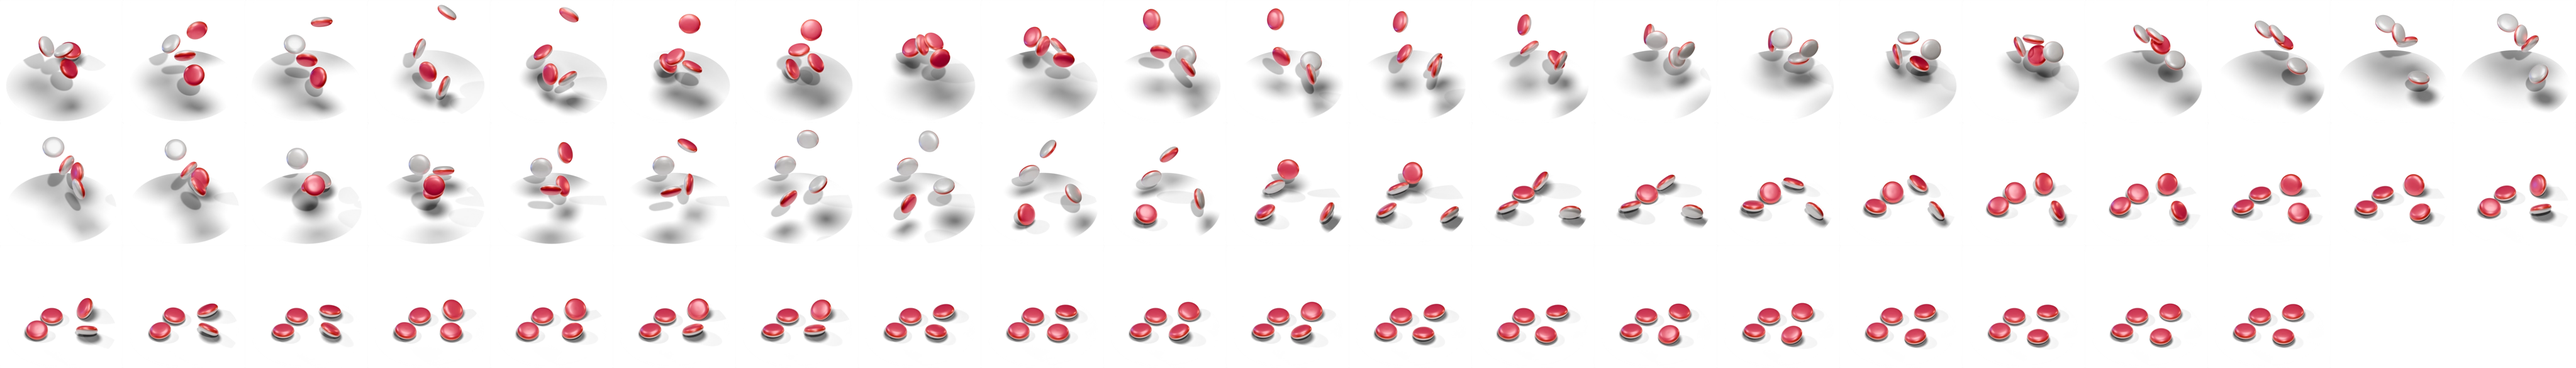
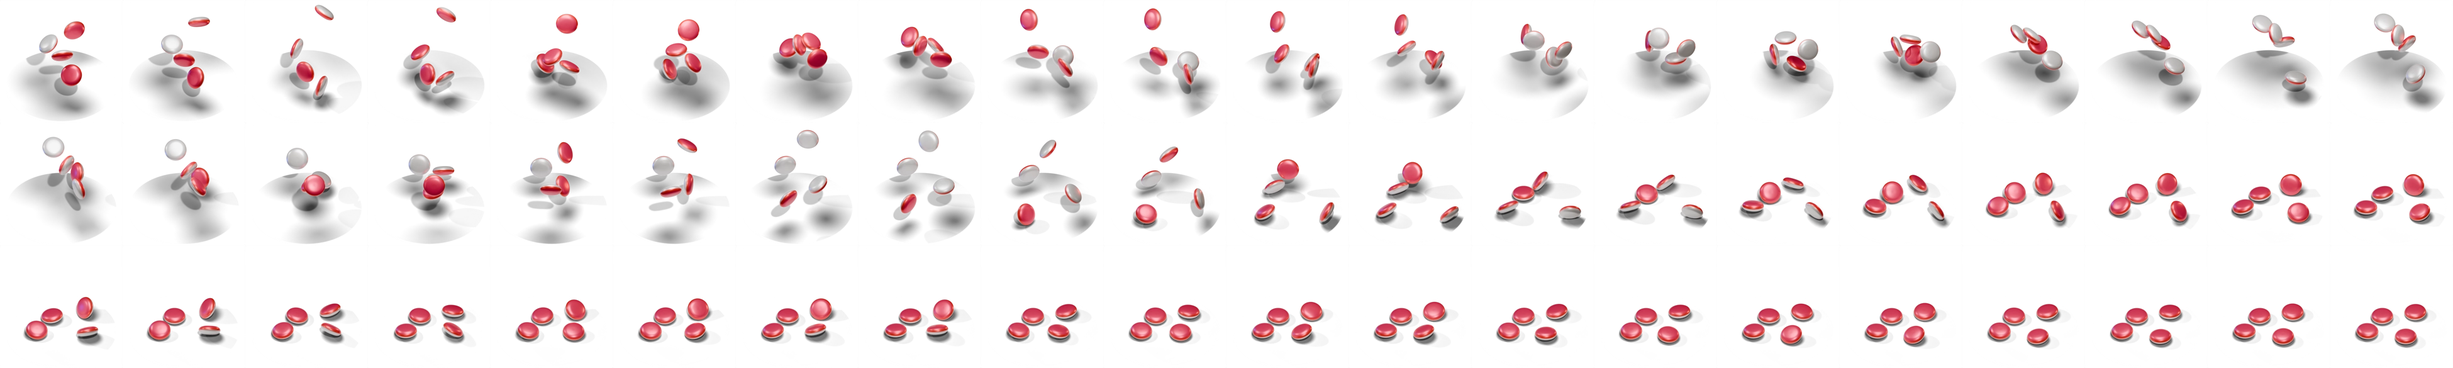
fix: random animation path for sedie cup - Epic GL-4116

diff --git a/packages/sedie-multiplayer/src/result-block/sedie-cup.tsx b/packages/sedie-multiplayer/src/result-block/sedie-cup.tsx
@@ -5,11 +5,9 @@ import { useGameStateContext } from "@shared/react-contexts/game-state-context/g
 import { useGameContext } from "@shared/react-contexts";
 import { Spritesheet } from "@shared/components/game-components/sprites-sheet";
 import { motion } from "motion/react";
-import { getWinningSubOption } from "../history/sedie-multiplayer-bet-detail-result-block";
 import { CachedImage } from "@shared/components/game-components/cached-image";
-import { useMemoriedImage } from "@shared/react-hooks/use-memoried-image";
-import { SeDieBetOptions } from "../sedie-multiplayer-constants";
 import { useDiceShakingRollingSound } from "@shared/react-hooks/use-sound";
+import { useAnimationImages } from "./use-animation-images";
 
 const OPEN_DURATION = 500; // Open duration in milliseconds
 
@@ -23,35 +21,12 @@ const SedieCup = () => {
     const [isShow, setIsShow] = useState(false);
     const [isAnimatingOut, setIsAnimatingOut] = useState(false);
     const [animationState, setAnimationState] = useState<AnimationState>("idle");
-    const { data: defaultAnimationPhase1 } = useMemoriedImage(
-        `/static/images/sedie-multiplayer/result/${getWinningSubOption(settlementResult)}.webp`
-    );
-    const [isUseDefaultAnimation, setIsUseDefaultAnimation] = useState(true);
-    const { data: animationPhase1 } = useMemoriedImage(`/static/images/sedie-multiplayer/animation/phase-1/animation-phase-1.webp`);
-    const { data: red2 } = useMemoriedImage(`/static/images/sedie-multiplayer/animation/phase-2/red2.webp`);
-    const { data: red3 } = useMemoriedImage(`/static/images/sedie-multiplayer/animation/phase-2/red3.webp`);
-    const { data: red4 } = useMemoriedImage(`/static/images/sedie-multiplayer/animation/phase-2/red4.webp`);
-    const { data: white3 } = useMemoriedImage(`/static/images/sedie-multiplayer/animation/phase-2/white3.webp`);
-    const { data: white4 } = useMemoriedImage(`/static/images/sedie-multiplayer/animation/phase-2/white4.webp`);
 
-    const animationPhase2 = useMemo(() => {
-        switch (getWinningSubOption(settlementResult)) {
-            case SeDieBetOptions.RED2:
-                return red2;
-            case SeDieBetOptions.RED3:
-                return red3;
-            case SeDieBetOptions.RED4:
-                return red4;
-            case SeDieBetOptions.WHITE3:
-                return white3;
-            case SeDieBetOptions.WHITE4:
-                return white4;
-            default:
-                return null;
-        }
-    }, [settlementResult]);
+    // Use custom hook to manage all animation images
+    const { animationPhase1, animationPhase2 } = useAnimationImages(settlementResult);
 
     const resultRef = useRef(null);
+    const phase1Ref = useRef(null);
     const phase2Ref = useRef(null);
 
     const playDiceShakingRollingSound = useDiceShakingRollingSound();
@@ -59,19 +34,6 @@ const SedieCup = () => {
     useEffect(() => {
         playDiceShakingRollingRef.current = playDiceShakingRollingSound;
     }, [playDiceShakingRollingSound]);
-
-    useEffect(() => {
-        if (animationPhase1 && animationPhase2) {
-            setIsUseDefaultAnimation(false);
-        }
-    }, [animationPhase1, animationPhase2]);
-
-    const animationPhase1Data = useMemo(() => {
-        if (isUseDefaultAnimation) {
-            return defaultAnimationPhase1;
-        }
-        return animationPhase1;
-    }, [isUseDefaultAnimation]);
 
     useEffect(() => {
         const resetState = () => {
@@ -183,25 +145,28 @@ const SedieCup = () => {
                     <div className="relative w-full h-full top-[13px] left-[83px] z-[5] scale-[92%]">
                         {animationState === "open" ? (
                             <div>
-                                <Spritesheet
-                                    key={`phase-1`}
-                                    className={`absolute inset-0`}
-                                    imageData={animationPhase1Data}
-                                    widthFrame={195}
-                                    heightFrame={195}
-                                    isResponsive={false}
-                                    steps={isUseDefaultAnimation ? 20 : 21}
-                                    autoplay={true}
-                                    fps={40}
-                                    startAt={1}
-                                    endAt={isUseDefaultAnimation ? 100 : 61}
-                                    onPause={(spritesheet) => {
-                                        if (!isUseDefaultAnimation && resultRef.current) {
-                                            resultRef.current?.goToAndPlay(0);
-                                            phase2Ref.current.style.opacity = "1";
-                                        }
-                                    }}
-                                />
+                                <div ref={phase1Ref} style={{ opacity: 1 }}>
+                                    <Spritesheet
+                                        key={`phase-1`}
+                                        className={`absolute inset-0`}
+                                        imageData={animationPhase1}
+                                        widthFrame={195}
+                                        heightFrame={195}
+                                        isResponsive={false}
+                                        steps={20}
+                                        autoplay={true}
+                                        fps={40}
+                                        startAt={1}
+                                        endAt={60}
+                                        onPause={(spritesheet) => {
+                                            if (resultRef.current && phase1Ref.current) {
+                                                phase1Ref.current.style.opacity = "0";
+                                                resultRef.current?.goToAndPlay(0);
+                                                phase2Ref.current.style.opacity = "1";
+                                            }
+                                        }}
+                                    />
+                                </div>
                                 <div ref={phase2Ref} style={{ opacity: 0 }}>
                                     <Spritesheet
                                         key={`phase-2`}
@@ -211,13 +176,13 @@ const SedieCup = () => {
                                         widthFrame={195}
                                         heightFrame={195}
                                         isResponsive={false}
-                                        steps={21}
+                                        steps={20}
                                         fps={40}
                                         startAt={1}
-                                        endAt={61}
+                                        endAt={60}
                                         autoplay={false}
                                         getInstance={(spritesheet) => {
-                                            resultRef.current = spritesheet;                                         
+                                            resultRef.current = spritesheet;
                                         }}
                                     />
                                 </div>
@@ -226,7 +191,7 @@ const SedieCup = () => {
                             <Spritesheet
                                 key={`waiting`}
                                 className={`fade-in`}
-                                imageData={animationPhase1Data}
+                                imageData={animationPhase1}
                                 widthFrame={195}
                                 heightFrame={195}
                                 isResponsive={false}

diff --git a/packages/sedie-multiplayer/src/result-block/use-animation-images.ts b/packages/sedie-multiplayer/src/result-block/use-animation-images.ts
@@ -1,0 +1,93 @@
+import { useMemo, useState, useEffect } from "react";
+import { useMemoriedImage } from "@shared/react-hooks/use-memoried-image";
+import { getWinningSubOption } from "../history/sedie-multiplayer-bet-detail-result-block";
+import { SeDieBetOptions } from "../sedie-multiplayer-constants";
+import { useGameStateContext } from "@shared/react-contexts/game-state-context/game-state-context";
+
+interface AnimationImages {
+    animationPhase1: any;
+    animationPhase2: any;
+}
+
+// Define all available variants for each option
+const ANIMATION_VARIANTS = {
+    [SeDieBetOptions.RED2]: ["red2-op-1", "red2-op-2", "red2-op-3", "red2-op-4", "red2-op-5", "red2-op-6"],
+    [SeDieBetOptions.RED3]: ["red3-op-1", "red3-op-2", "red3-op-3", "red3-op-4"],
+    [SeDieBetOptions.WHITE3]: ["white3-op-1", "white3-op-2", "white3-op-3", "white3-op-4"],
+    // red4 and white4 don't have variants, use original names
+    [SeDieBetOptions.RED4]: ["red4"],
+    [SeDieBetOptions.WHITE4]: ["white4"],
+};
+
+export const useAnimationImages = (settlementResult: any) => {
+    const { roundId } = useGameStateContext();
+    const [selectedVariants, setSelectedVariants] = useState<Record<string, string>>({});
+
+    // Load animation phase 1
+    const { data: animationPhase1 } = useMemoriedImage(`/static/images/sedie-multiplayer/animation/phase-1/animation-phase-1.webp`);
+
+    // Randomize variants based on roundId for consistent animation across players
+    useEffect(() => {
+        const newVariants: Record<string, string> = {};
+
+        const seededRandom = (seed: string, max: number) => {
+            let hash = 0;
+            for (let i = 0; i < seed.length; i++) {
+                const char = seed.charCodeAt(i);
+                hash = (hash << 5) - hash + char;
+                hash = hash & hash;
+            }
+
+            return Math.abs(hash) % max;
+        };
+
+        const winningOption = getWinningSubOption(settlementResult);
+        const variants = ANIMATION_VARIANTS[winningOption];
+
+        if (variants.length > 1) {
+            // Use roundId as seed for consistent randomization
+            const randomIndex = seededRandom(`${roundId}-${winningOption}`, variants.length);
+            newVariants[winningOption] = variants[randomIndex];
+        } else {
+            // Use the only variant for red4 and white4
+            newVariants[winningOption] = variants[0];
+        }
+
+        setSelectedVariants(newVariants);
+    }, [roundId, settlementResult]);
+
+    // Load all phase 2 animations with their selected variants
+    const { data: red2 } = useMemoriedImage(
+        `/static/images/sedie-multiplayer/animation/phase-2/${selectedVariants[SeDieBetOptions.RED2] || "red2-op-1"}.webp`
+    );
+    const { data: red3 } = useMemoriedImage(
+        `/static/images/sedie-multiplayer/animation/phase-2/${selectedVariants[SeDieBetOptions.RED3] || "red3-op-1"}.webp`
+    );
+    const { data: white3 } = useMemoriedImage(
+        `/static/images/sedie-multiplayer/animation/phase-2/${selectedVariants[SeDieBetOptions.WHITE3] || "white3-op-1"}.webp`
+    );
+
+    const { data: red4 } = useMemoriedImage(`/static/images/sedie-multiplayer/animation/phase-2/red4.webp`);
+    const { data: white4 } = useMemoriedImage(`/static/images/sedie-multiplayer/animation/phase-2/white4.webp`);
+
+    const phase2Images = useMemo(
+        () => ({
+            [SeDieBetOptions.RED2]: red2,
+            [SeDieBetOptions.RED3]: red3,
+            [SeDieBetOptions.RED4]: red4,
+            [SeDieBetOptions.WHITE3]: white3,
+            [SeDieBetOptions.WHITE4]: white4,
+        }),
+        [red2, red3, red4, white3, white4]
+    );
+
+    const animationPhase2 = useMemo(() => {
+        const winningOption = getWinningSubOption(settlementResult);
+        return phase2Images[winningOption] || null;
+    }, [settlementResult, phase2Images]);
+
+    return {
+        animationPhase1,
+        animationPhase2,
+    } as AnimationImages;
+};
